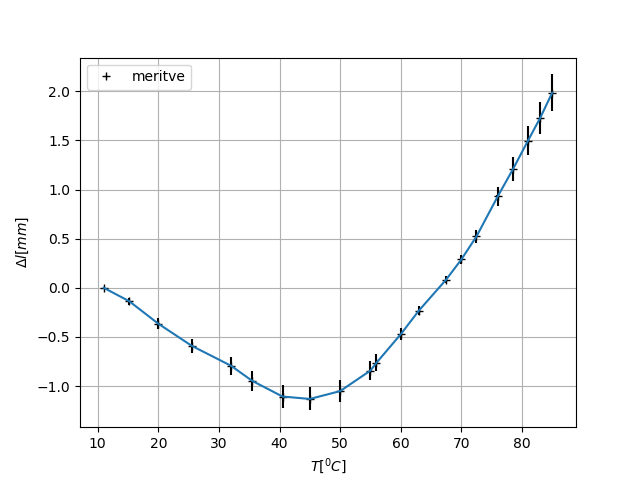
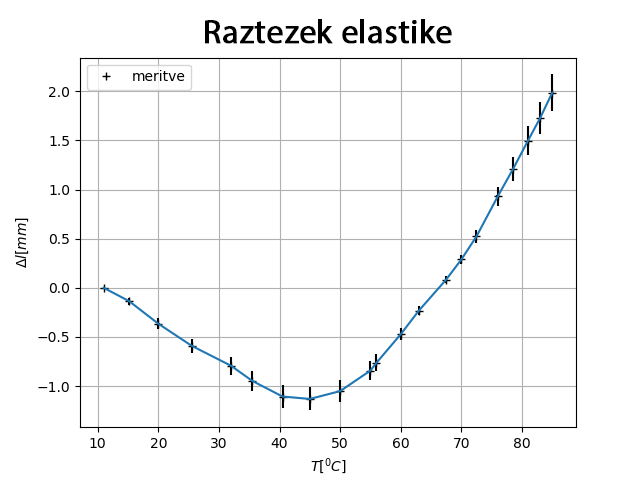
Add files via upload

Changed region(s): [[0.3125, 0.0312, 0.7188, 0.0938]]

diff --git a/style.css b/style.css
@@ -97,3 +97,10 @@ h1.podtocki {
     text-align: center;
     margin-top: 3%;
 }
+
+.opisi {
+    display: block;
+    margin-left: auto;
+    margin-right: auto; 
+    text-align: center;
+}
